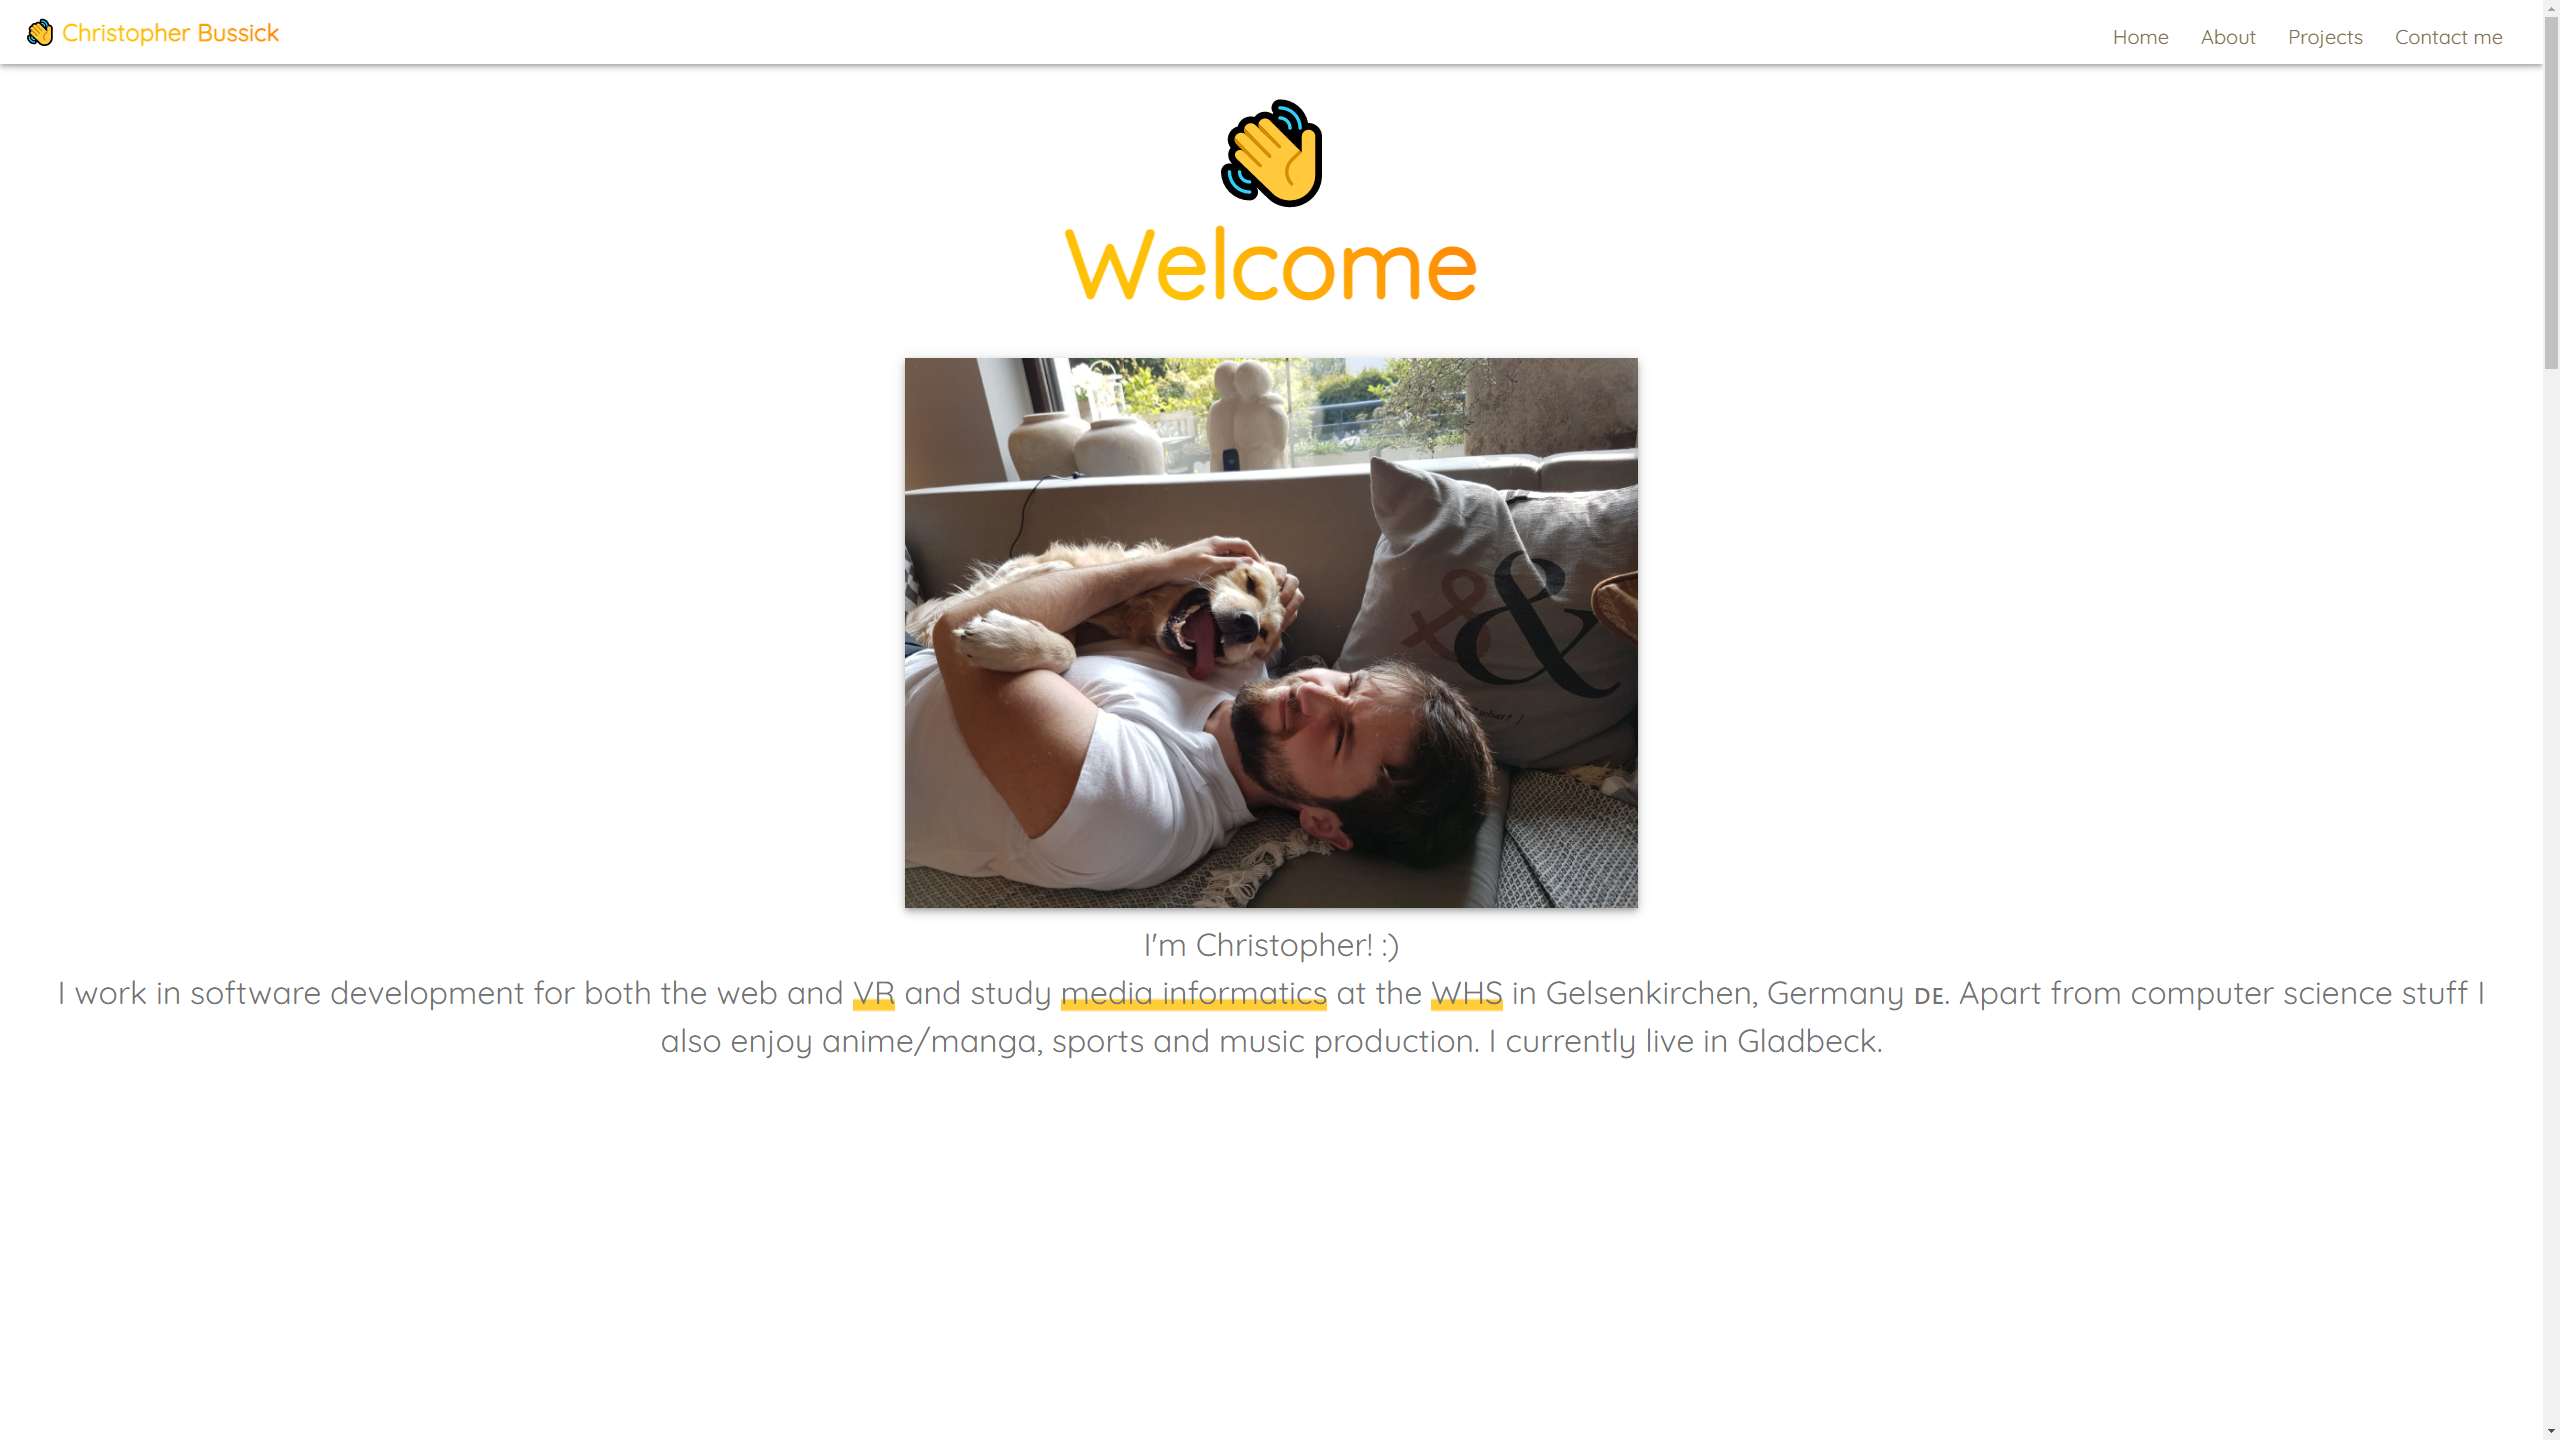
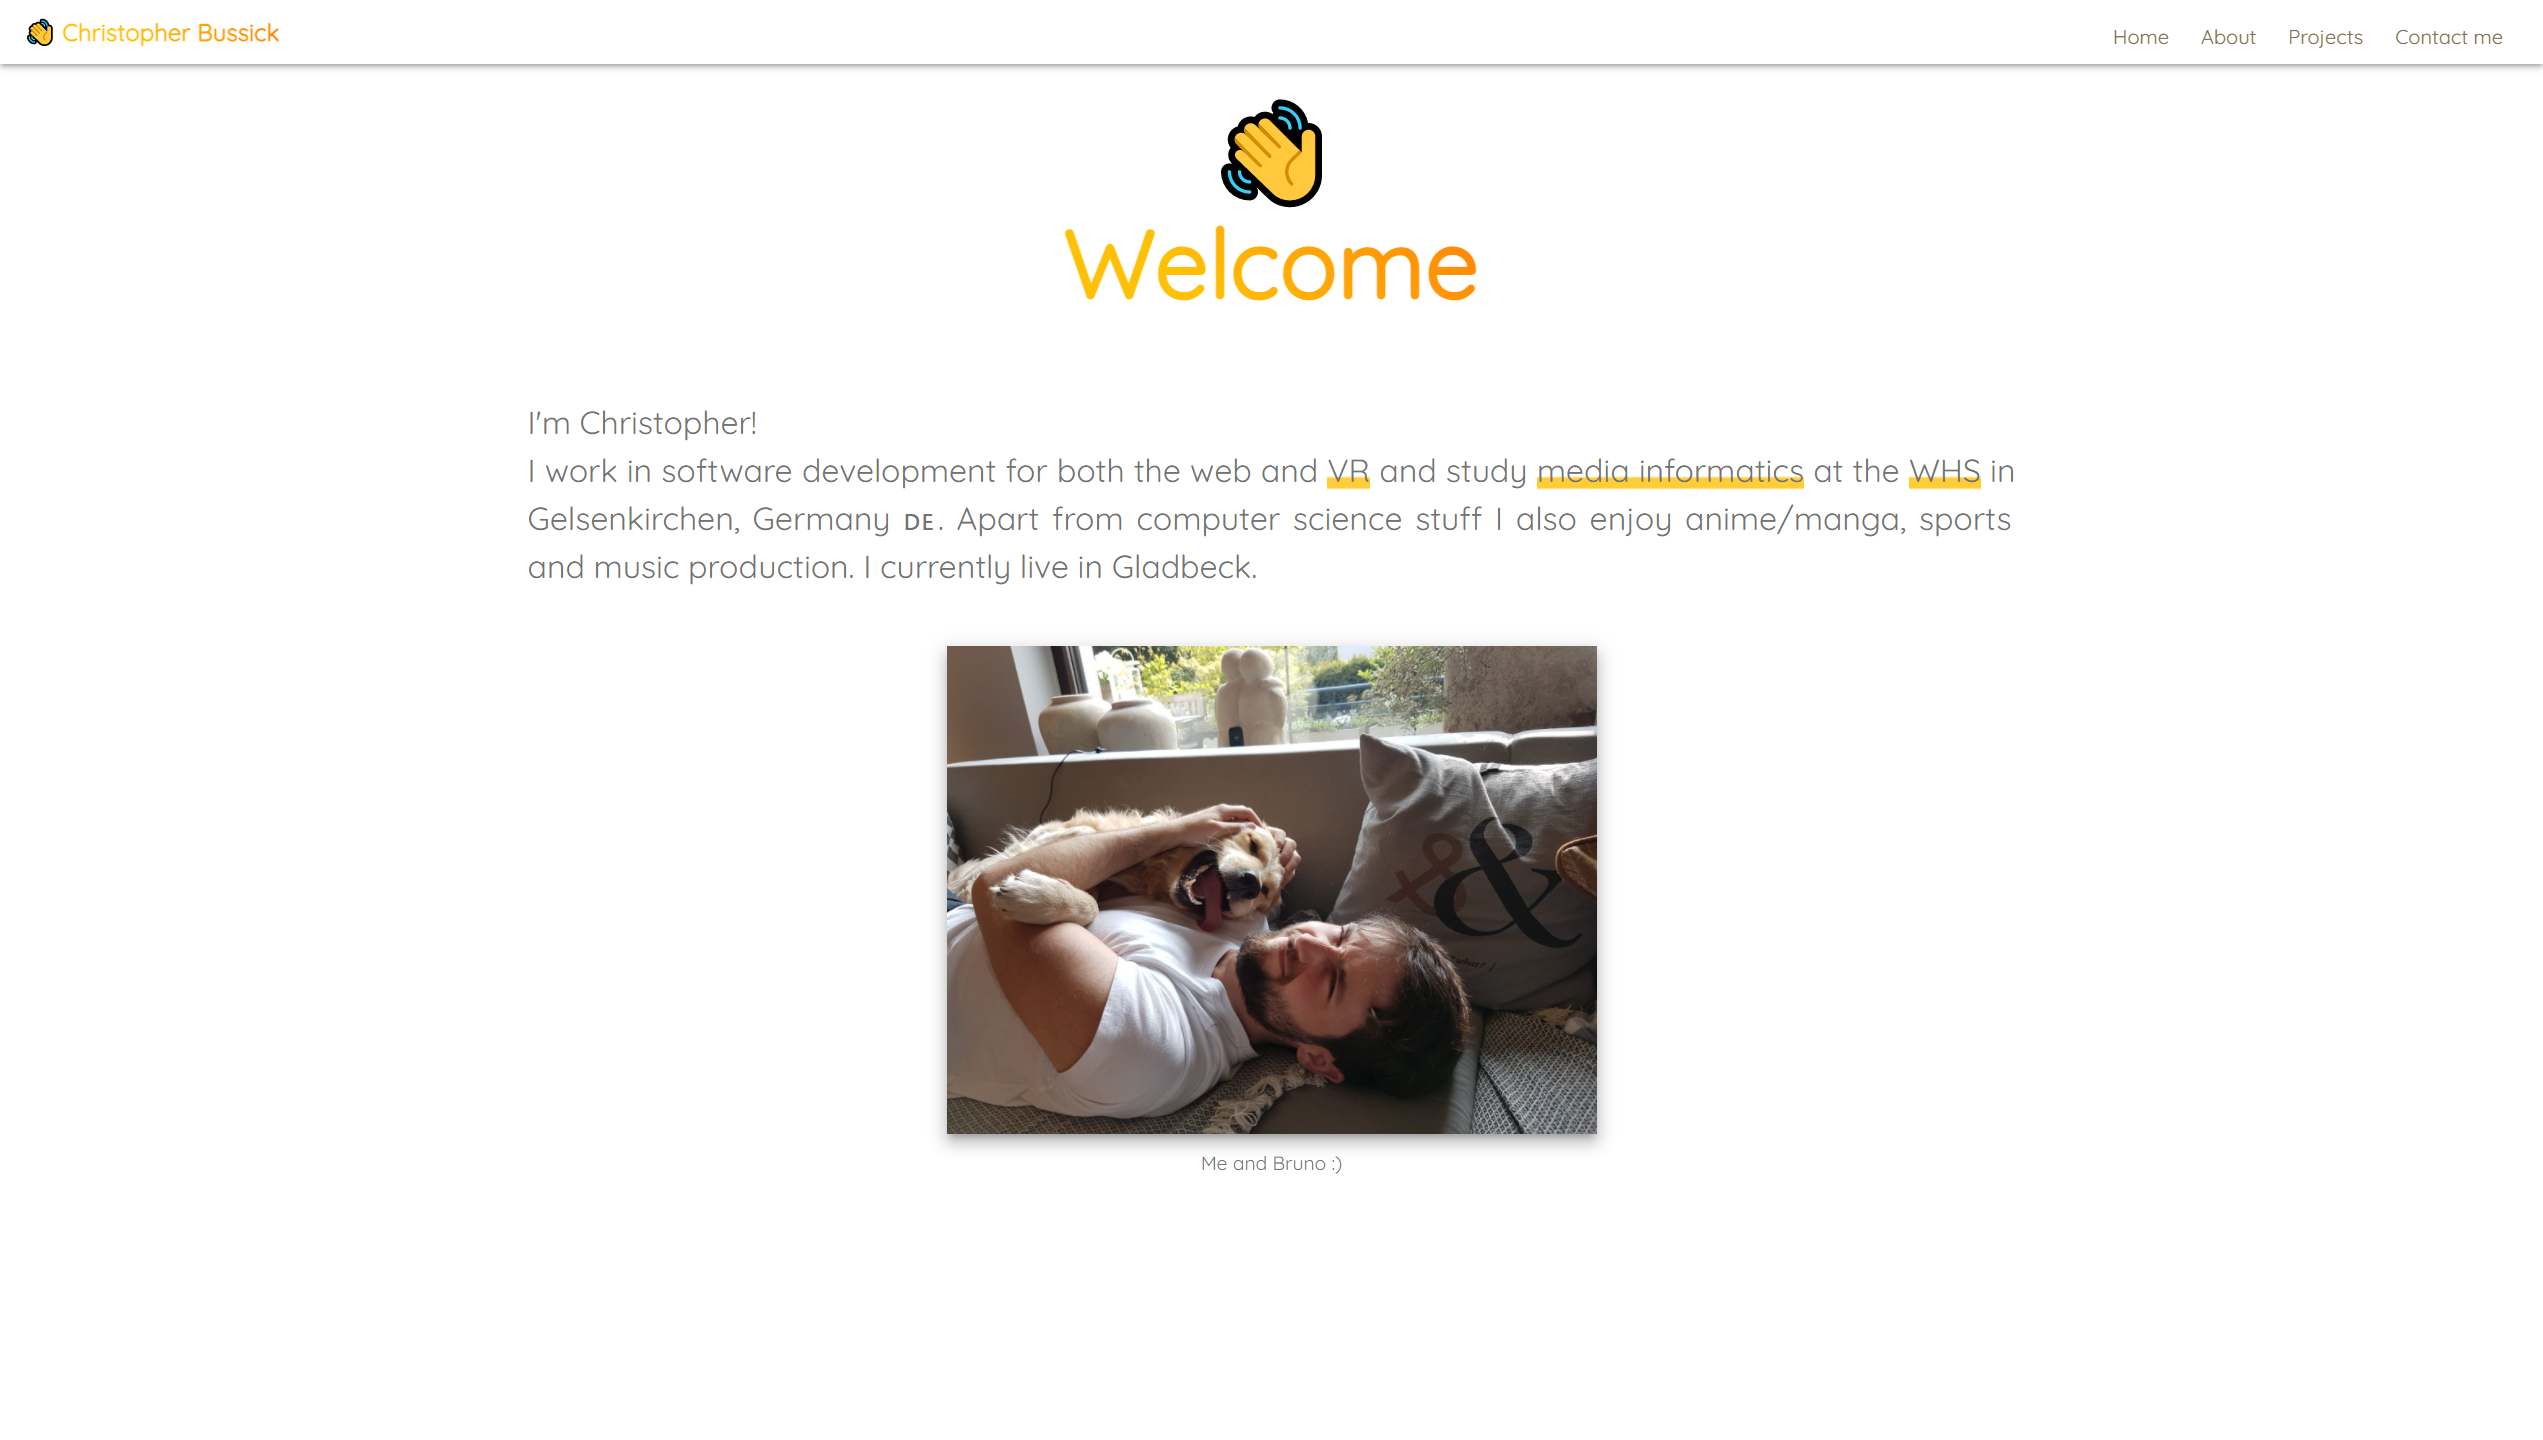
Small adjustments (#24)
* Clean up

* Change card title gradient styling, increase card width

* Add tech stack to projects

* Slight restructuring of home section

* Make cards the same height

* Rename image file

* Change card border radius

* Increase h1 margin

* Replace image

diff --git a/src/theme/theme.ts b/src/theme/theme.ts
@@ -16,7 +16,7 @@ const theme = createTheme({
   typography: {
     fontFamily: ["quicksand", "sans-serif"].join(", "),
     h1: {
-      marginBottom: 50,
+      marginBottom: 80,
     },
     body1: {
       fontSize: "2rem",
@@ -67,6 +67,7 @@ const themeWithOverrides: Theme = {
     MuiCard: {
       styleOverrides: {
         root: {
+          borderRadius: 12,
           boxShadow: theme.shadows[10],
         },
       },

diff --git a/src/components/sections/CBProjectsSection/projectsData.tsx b/src/components/sections/CBProjectsSection/projectsData.tsx
@@ -1,7 +1,7 @@
 import { Link } from "@mui/material";
 import React from "react";
 import { Project, ProjectThumbnailType } from "../../../interfaces/Project";
-import bpmTapper from "../../../resources/bpm-tapper-thumbnail.png";
+import bpmTapper from "../../../resources/bpm-tapper.png";
 import portfolio from "../../../resources/portfolio-website.png";
 import vbsLogo from "../../../resources/vbs-logo.svg";
 
